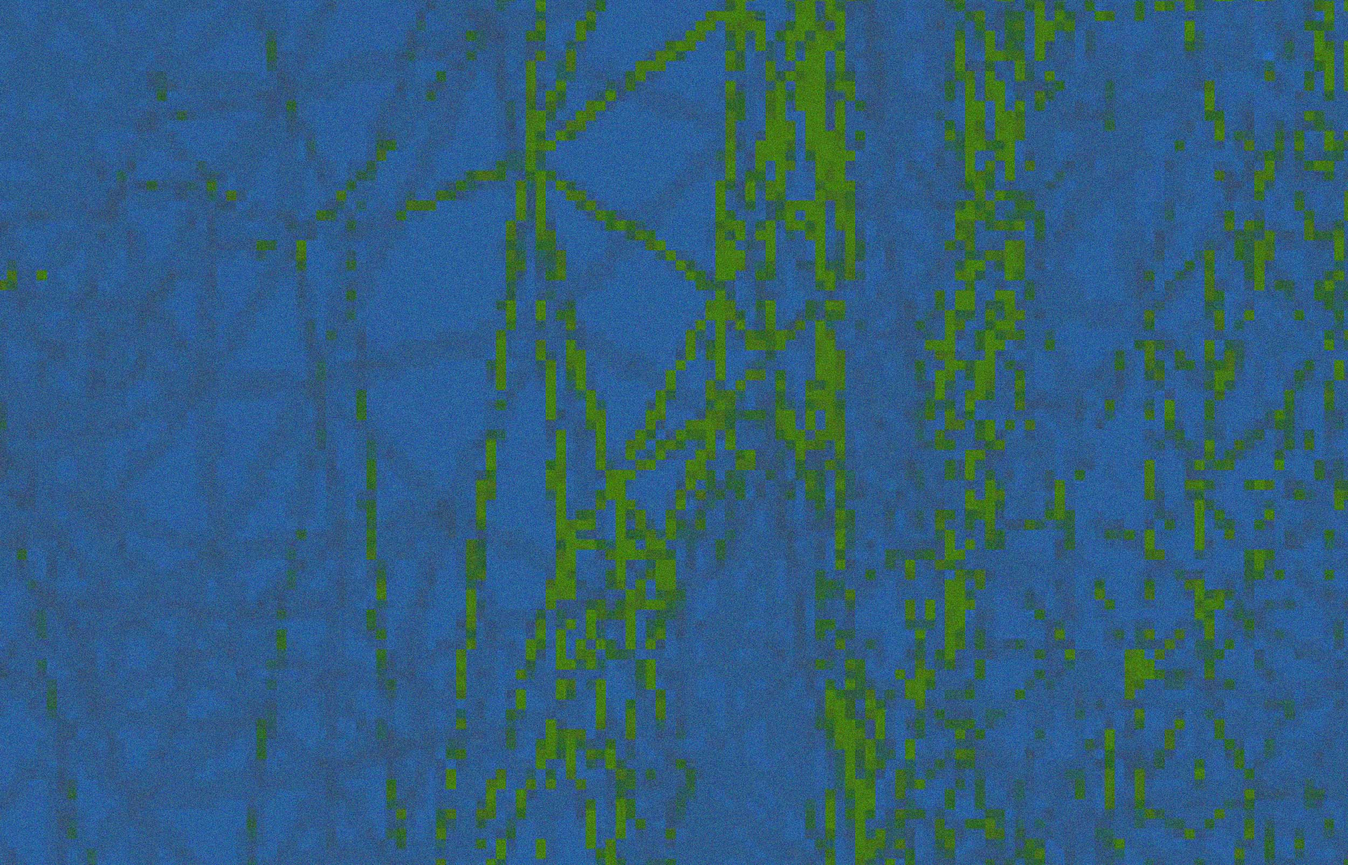
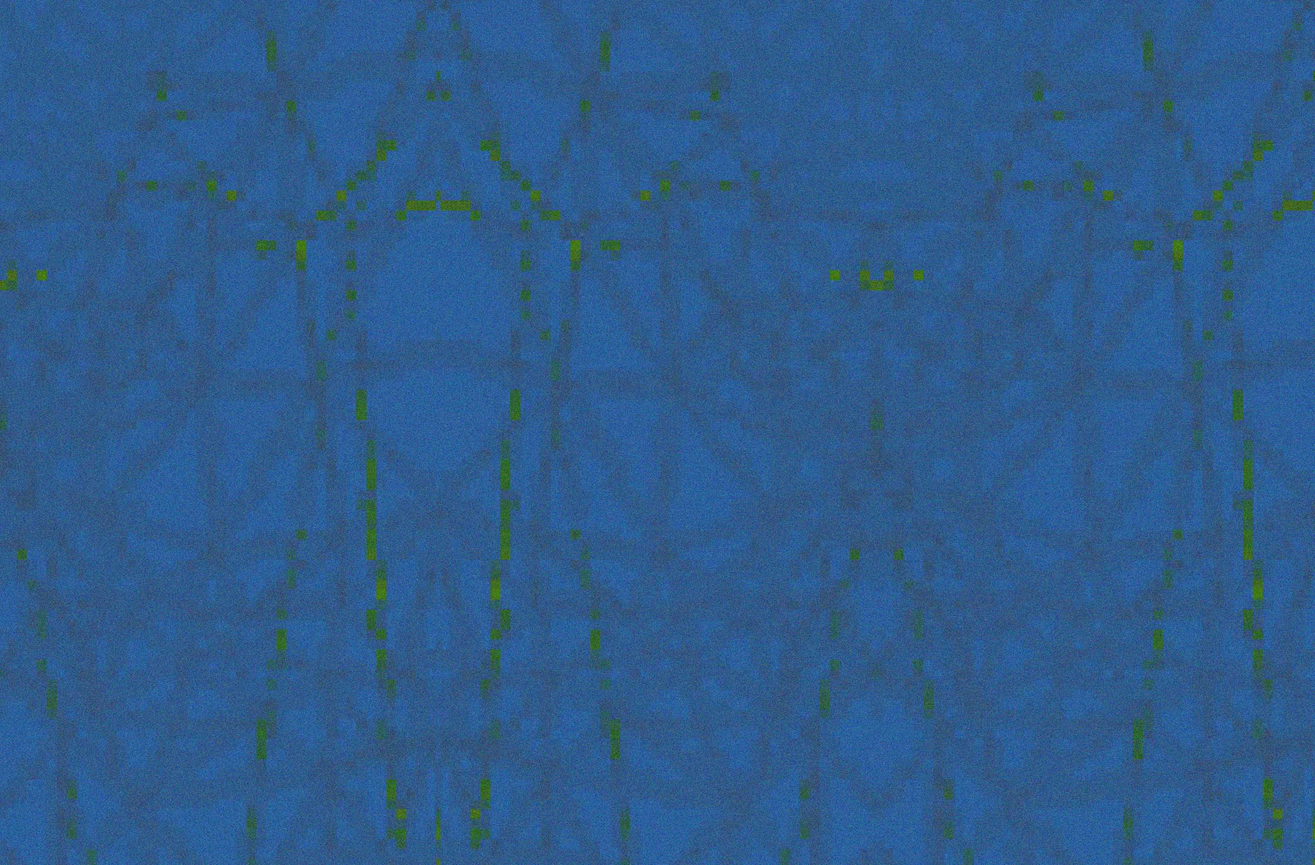
bg

diff --git a/public/lcd.css b/public/lcd.css
@@ -5,8 +5,9 @@
     --text-link: var(--fall-22-special-text) ;
     --box-shadow: rgba(0,0,0,.3);
 
-   --winter-23-background: #ffffff;
-   --winter-23-text: #285f9e;
+   --winter-23-background: #285f9e;
+  --winter-23-text: #fff;
+   /* --winter-23-text: #285f9e; */
    --winter-23-text-on-bg: #fff;
    --winter-23-link:  #74c131;
    --winter-23-special-text:  #285f9e;
@@ -238,17 +239,49 @@ select#allSections {
 
 
 
+
+
 /* /////////// start winter 23  ///////////////////////////////*/
 
 .winter-23,
 .winter-23.featured.session,
+.winter-23.featured  {
+ /* background-color: var(--sex-ed-background)  !important; */
+ color: var(--winter-23-text);
+ box-sizing: border-box;
+ border-color: var(--winter-23-text);
+ background-image: url('images/sessions/winter-23/bg.jpg');
+ background-position: bottom;
+ background-repeat: repeat;
+ background-size: 100%;
+}
+
+.winter-23.featured:hover {
+  background-size: 150%;
+}
+
+
+
+     .shell.winter-23 {
+       background-image:url('images/sessions/winter-23/bg.jpg');
+       /* background-position: bottom; */
+       /* background-repeat: no-repeat;
+       background-size: cover; */
+       background-position: top left;
+       background-repeat: repeat;
+       background-size: cover;
+     }
+
+
+
+.winter-23,
+.winter-23.featured.session,
 .shell .winter-23,
-.winter-23.featured,
-#tag.winter-23  {
-  background-color: var(--winter-23-background)  !important;
-  color: var(--winter-23-text) !important;
-  box-sizing: border-box !important;
-  border-color: var(--winter-23-text) !important;
+.winter-23.featured  {
+  /* background-color: var(--winter-23-background)  !important; */
+  color: var(--winter-23-text);
+  box-sizing: border-box;
+  border-color: var(--winter-23-text);
   text-shadow: none !important;
 }
 
@@ -309,7 +342,7 @@ select#allSections {
       }
 
       .winter-23 .block-text {
-        background-color: var(--winter-23-background);
+        background-color: var(--winter-23-link);
       }
 
 
@@ -358,7 +391,7 @@ select#allSections {
       .winter-23 .text-on-bg,
       .winter-23 .breadcrumb a:hover {
           color: var(--winter-23-text-on-bg) !important;
-          text-shadow: 2px 2px 0px var(--winter-23-text);
+          text-shadow: 2px 2px 0px var(--winter-23-link);
       }
 
 
@@ -371,7 +404,8 @@ select#allSections {
       .winter-23 section ul,
       .winter-23 .website-grid
        {
-        background-color: var(--winter-23-background);
+        /* background-color: var(--winter-23-background); */
+        background: none;
         color:  var(--winter-23-text) !important;
         border-radius: var(--border-rad);
       }
@@ -390,8 +424,8 @@ select#allSections {
       }
 
       .winter-23 .break {
-        border: 0px !important;
-        margin-bottom: 0px !important;
+        /* border: 0px !important; */
+        /* margin-bottom: 0px !important; */
         border-color: var(--winter-23-text);
       }
 
@@ -400,13 +434,10 @@ select#allSections {
         background-size: cover;
       }
 
-      .winter-23.test, .winter-23.block-text {
-        border-color: var(--winter-23-text);
-      }
-
-
 
 /* /////////// end winter 23  ///////////////////////////////*/
+
+
 
 
 
